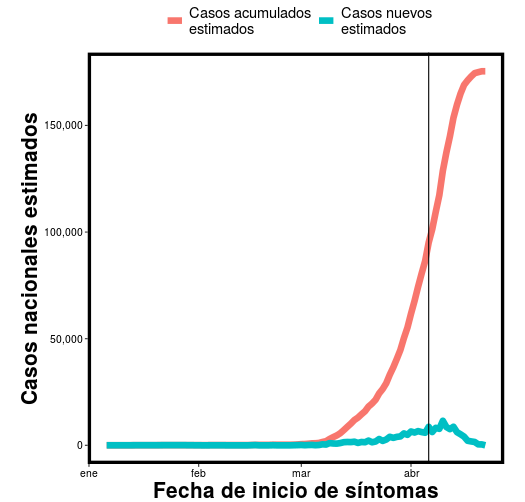
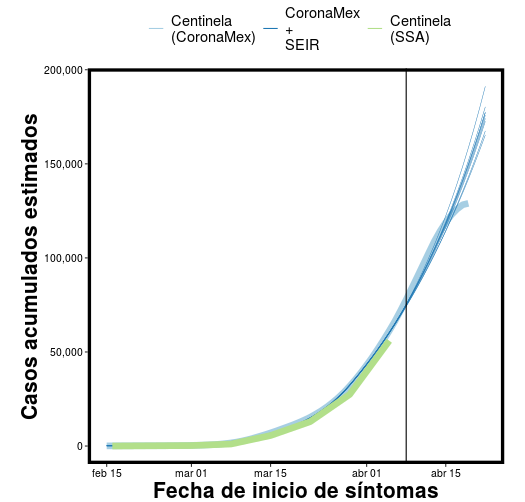
Centinela + SEIR

diff --git a/content/casos/sir_centinela.md b/content/casos/sir_centinela.md
@@ -2,28 +2,37 @@
 title: "¿Cuántos casos hay en México? (Centinela)"
 name: "sir_centinela"
 draft: false
-descripcion: '<p>El modelo de vigilancia Centinela es mucho mejor estimando el
-el verdadero número de casos que simplemente contar casos
-confirmados. La Secretaría de Salud ha hecho públicos sus estimados sólo
-hasta <a href="https://youtu.be/So48LCI6tSY?t=1349" target="_blank">
+descripcion: '<p>El sistema Centinela es similar a una encuesta y
+permite estimar el número de casos reales del COVID-19 aún
+sin diagnosticar a todos los contagiados. Los estimados oficiales
+se publican con dos semanas de retraso, y el estimado oficial más
+reciente es de
+<a href="https://youtu.be/So48LCI6tSY?t=1349" target="_blank">
 la semana epidemiológica 14 (3 de abril)</a>. Como la epidemia sigue
-creciendo, el número de casos actual debe ser mayor.</p>
-<p>Con estas limitaciones, esta gráfica muestra mi estimado del número
-de casos nuevos, y casos acumulados por el día en que los pacientes
-mostrarían síntomas. Estos estimados consideran la estratificación por tipo
-de caso, y por entidad, pero <emph>todavía no consideran la estratificación por
-grupo de edad</emph>. Aunque estos números están basados en datos oficiales,
-<emph>no se trata de estimados oficiales del sistema Centinela</emph>.
-Debido ha que hay un retraso entre la aparición de síntomas y la
-detección de un caso, los números de los últimos 15 días probablemente
-aumentarán en los próximos días. Por lo tanto estos estimados deben
-interpretarse como el mínimo de casos de COVID19 en México.
-<strong>Quédate en Casa</strong>.</p>'
+creciendo, el número de casos el día de hoy actual debe ser mayor.</p>
+
+<p>La Secretaría de Salud (SSA) no publica todos los elementos
+necesarios para reproducir sus estimados, así que hago algunas
+simplificaciones para llegar a un resultado similar. Esto nos permite
+producir estimados en fechas más recientes. Todos los valores en esta
+gráfica se calculan
+<a href="https://github.com/coronamex/visualizando/blob/master/casos/centinela_preliminar.r" target="_blank">con este código</a>.</p>
+
+<p>Finalmente, podemos combinar los números del sistema Centinela
+con un <a href="/casos#sir">modelo SEIR</a> para corregir por
+el retraso en la detección de casos
+y estimar el número de real casos el día de hoy.</p>'
 imagen: "imagenes/sir_nacional_centinela.png"
 imagen2x: "imagenes/sir_nacional_centinela@2x.png"
-alt: ''
+alt: 'Casos nacionales acumulados estimados de COVID-19 en México
+con datos del sistema de vigilancia epidemiológica centinela.
+La gráfica muestra los estimados oficiales más recientes de la SSA que
+se publican una vez por semana y con dos semanas de retraso.
+La gráfica también muestra los estimados correspondientes de CoronaMex
+que se actualizan diariamente con la base de datos abiertos de la
+Secretaría de Salud.'
 Weight: 800
 principal: true
 secciones: ["principal", "casos"]
-etiquetas: ["nacional", "casos", "síntomas", "estimado", "SIR", "centinela"]
+etiquetas: ["nacional", "casos", "síntomas", "estimado", "centinela"]
 ---

diff --git a/content/casos/nacional_sintomas.md b/content/casos/nacional_sintomas.md
@@ -8,8 +8,10 @@ de acuerdo a la fecha en que empezaron a mostrar síntomas.</p>
 las personas infectadas muestren síntomas, no tenemos
 el número real de nuevas infecciones en los últimos días.</p>
 <p>Sin embargo, podemos utilizar los casos que mostraron
-síntomas hasta hace 15 días para <a href="#sir">estimar</a>
-el número de casos en la actualidad</p>'
+síntomas hasta hace 15 días para <a href="/casos#sir">estimar</a>
+el número de casos en la actualidad y el
+<a href="/casos#sir_centinela">sistema Centinela</a>
+para estimar el número de casos reales.</p>'
 imagen: "imagenes/inicio_sintomas_por_fecha_nacional.png"
 imagen2x: "imagenes/inicio_sintomas_por_fecha_nacional@2x.png"
 alt: 'Número de casos de COVID-19 en México que empezaron

diff --git a/content/casos/sir.md b/content/casos/sir.md
@@ -39,6 +39,6 @@ de datos utiliza las fechas de inicio de síntomas proporcionados por
 los datos abiertos de la SSA en la fecha más reciente.'
 Weight: 700
 principal: false
-secciones: ["principal", "casos"]
-etiquetas: ["nacional", "casos", "síntomas", "estimado", "SIR"]
+secciones: ["casos"]
+etiquetas: ["nacional", "casos", "síntomas", "estimado", "SIR", "modelo"]
 ---
